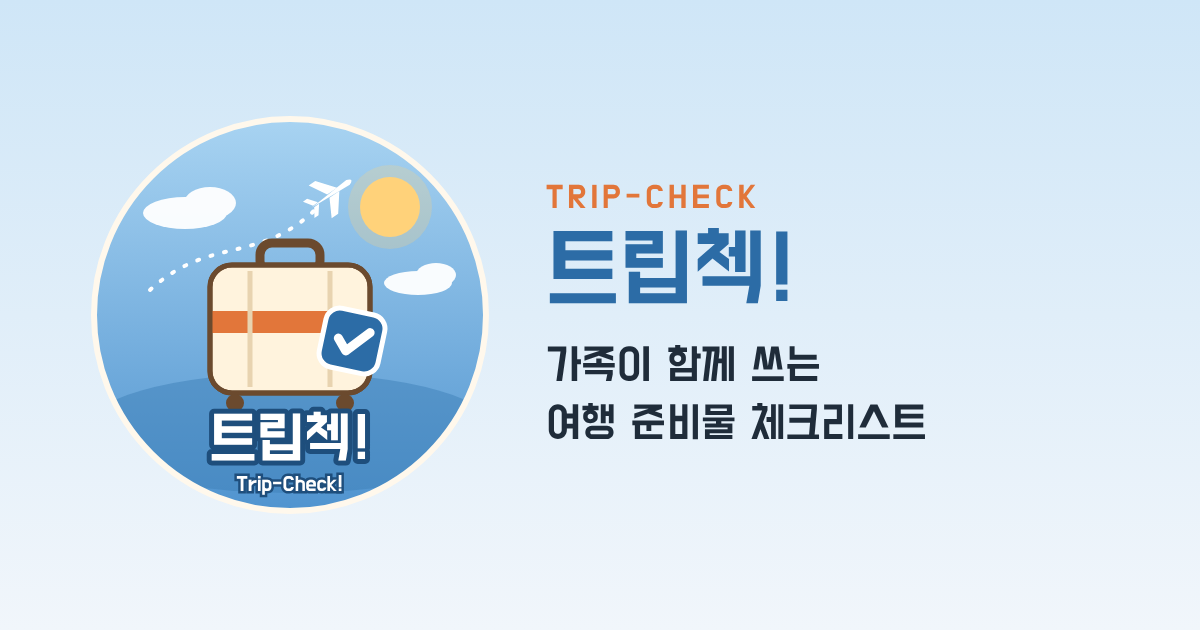
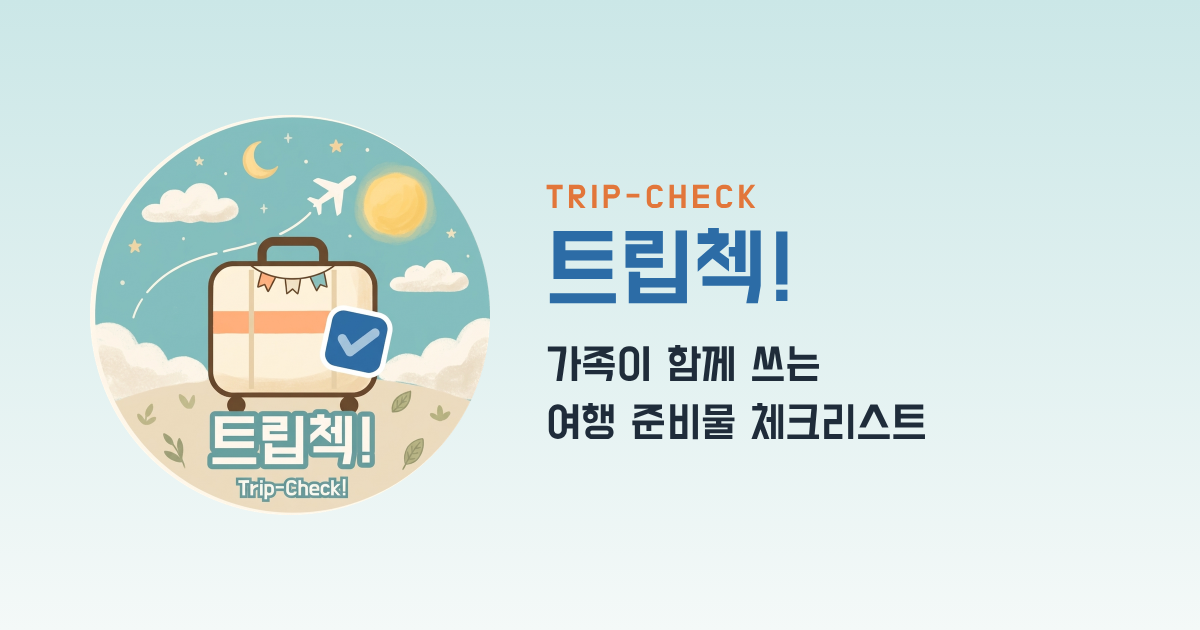
새 원형 로고, 카톡 썸네일 새로 만들기, 위쪽 배경을 로고 하늘색에 맞춤
Claude-Session: https://claude.ai/code/session_01Cwt62WFp52xXxeTg9ZhHwg

Changed region(s): [[0.0617, 0.181, 0.4317, 0.8143]]

diff --git a/index.html b/index.html
@@ -28,9 +28,9 @@
 /* Layout: 숲 속 사이트 안내판 느낌 — 상단 여행 정보 + 전체 진행 막대, 구역별 카드 격자, 맨 아래 날짜별 여행 기록 */
 /* 트립첵! 그림 톤: 맑은 하늘, 바다 파랑, 크림 캐리어, 노을 주황 */
 :root{
-  --bg:#F1F6FB; --surface:#FFFFFF; --ink:#1F2C3A; --muted:#5B6B7D; --line:#D5E2EE;
+  --bg:#F1F7F7; --surface:#FFFFFF; --ink:#1F2C3A; --muted:#5B6B7D; --line:#D4E3E6;
   --accent:#E2763A; --accent-soft:#FDEFE6; --forest:#2C6CA6; --done:#94A3B3; --on-forest:#FFFFFF; --danger:#C94A35;
-  --sky:#8FC3EC; --tree:#3E8E6B; --star:#F2A93B;
+  --sky:#86C2C4; --tree:#3E8E6B; --star:#F2A93B;
   --f-display:"Do Hyeon","Noto Sans KR",sans-serif;
   --f-body:"Nanum Gothic","Apple SD Gothic Neo","Malgun Gothic",sans-serif;
   --f-mono:"IBM Plex Mono",ui-monospace,monospace;

diff --git a/sw.js b/sw.js
@@ -1,7 +1,7 @@
 /* 트립첵! — 화면 파일을 저장해 두었다가 인터넷이 약한 곳에서도 열리게 함.
    화면은 늘 새로 받아 보고(업데이트 바로 반영), 안 되면 저장해 둔 것으로 엶.
    가족 공간 자료(파이어베이스)는 건드리지 않음 — 파이어베이스가 스스로 이 기기에 저장해 둠. */
-const CACHE = "tripcheck-v1.0.0";
+const CACHE = "tripcheck-v1.0.1";
 const SHELL = ["./", "./index.html", "./manifest.webmanifest", "./app-firebase.js", "./firebase-config.js", "./icon-192.png", "./icon-512.png", "./apple-touch-icon.png", "./logo.png", "./privacy.html"];
 
 self.addEventListener("install", e => {
